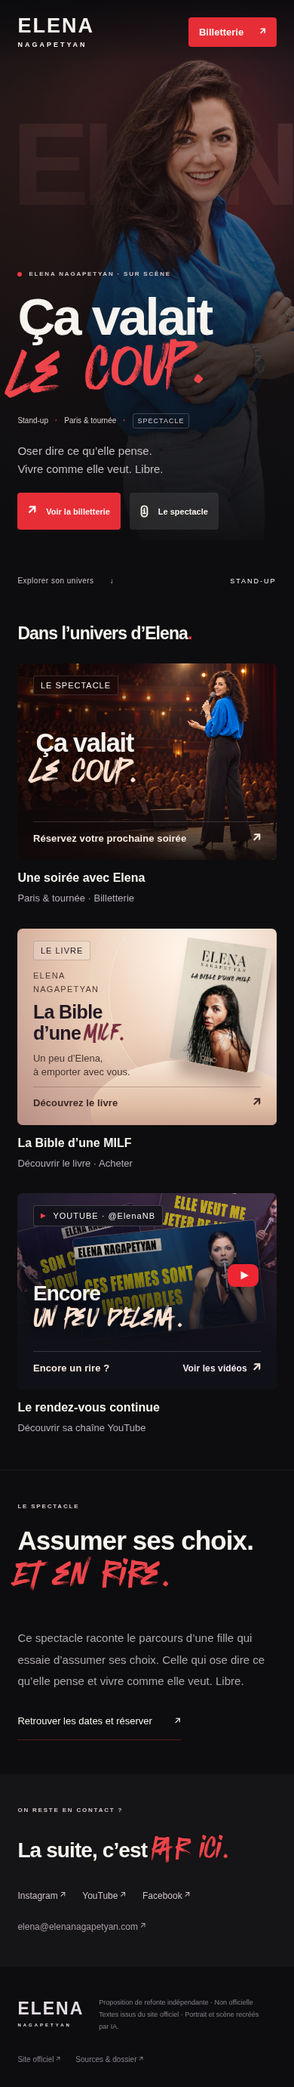
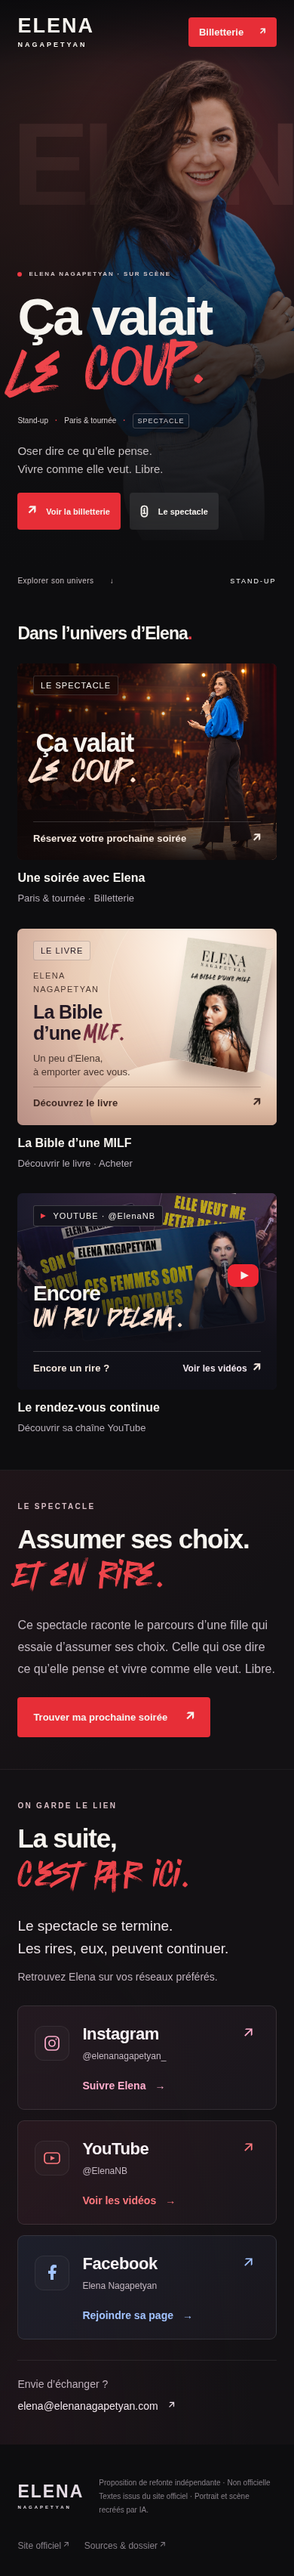
[Sol · GPT-6 · 19/09/2026] Harmoniser le bas de page et valoriser les réseaux

diff --git a/site/index.html b/site/index.html
@@ -1,12 +1,12 @@
 <!doctype html>
-<html lang="fr"><head><meta charset="utf-8"><meta name="viewport" content="width=device-width,initial-scale=1"><meta name="robots" content="noindex,nofollow"><meta name="description" content="Une proposition créative autour de l’univers d’Elena Nagapetyan."><title>Elena — Ça valait le coup · Concept</title><link rel="stylesheet" href="style.css?v=readability-8"></head>
+<html lang="fr"><head><meta charset="utf-8"><meta name="viewport" content="width=device-width,initial-scale=1"><meta name="robots" content="noindex,nofollow"><meta name="description" content="Une proposition créative autour de l’univers d’Elena Nagapetyan."><title>Elena — Ça valait le coup · Concept</title><link rel="stylesheet" href="style.css?v=social-9"></head>
 <body>
 <a class="skip" href="#spectacle">Aller au contenu</a>
 <header><a class="brand" href="#accueil" aria-label="Elena, accueil">ELENA<span>NAGAPETYAN</span></a><nav aria-label="Navigation principale"><a class="active" href="#accueil">Accueil</a><a href="#spectacle">Le spectacle</a><a href="#univers">Son univers</a><a href="#contact">Contact</a></nav><a class="tickets" href="https://linktr.ee/elenanb" target="_blank" rel="noopener noreferrer">Billetterie <span>↗</span></a></header>
 <main><section class="hero" id="accueil"><div class="glow"></div><div class="backword" aria-hidden="true">ELENA</div><img class="portrait" src="assets/elena-hd.png" alt="Elena Nagapetyan" fetchpriority="high"><div class="hero-shade"></div><div class="hero-content"><p class="eyebrow"><span></span> ELENA NAGAPETYAN · SUR SCÈNE</p><h1><span>Ça valait</span><br><em>le coup.</em></h1><div class="metadata"><span>Stand-up</span><b>·</b><span>Paris & tournée</span><b>·</b><span class="tag">SPECTACLE</span></div><p class="intro">Oser dire ce qu’elle pense.<br>Vivre comme elle veut. Libre.</p><div class="actions"><a class="button primary" href="https://linktr.ee/elenanb" target="_blank" rel="noopener noreferrer"><span>↗</span> Voir la billetterie</a><a class="button secondary" href="#spectacle"><span>ⓘ</span> Le spectacle</a></div></div><div class="hero-bottom"><span>UNE VOIX. AUCUN FILTRE.</span><a href="#univers">Explorer son univers <span>↓</span></a><span class="index">STAND-UP</span></div></section>
 <section class="catalog section" id="univers"><div class="section-heading"><h2>Dans l’univers d’Elena<span>.</span></h2><span>Sur scène, sur papier, sans filtre.</span></div><div class="cards"><a class="card stage" href="https://linktr.ee/elenanb" target="_blank" rel="noopener noreferrer"><div class="card-art"><span class="pill">LE SPECTACLE</span><img class="scene-photo" src="assets/elena-scene.png" alt="Illustration générée d’Elena debout sur scène face à une salle de spectacle" loading="lazy"><span class="scene-shade" aria-hidden="true"></span><div class="card-title">Ça valait<br><em>le coup.</em></div><span class="card-cta">Réservez votre prochaine soirée <span aria-hidden="true">↗</span></span></div><div class="card-caption"><h3>Une soirée avec Elena</h3><p>Paris & tournée · Billetterie</p></div></a><a class="card book" href="https://www.interforum.fr/Affiliations/accueil.do?refLivre=9782749964133&amp;refEditeur=132&amp;type=P" target="_blank" rel="noopener noreferrer"><div class="card-art"><span class="pill">LE LIVRE</span><span class="book-orbit" aria-hidden="true"></span><span class="book-plinth" aria-hidden="true"></span><div class="book-copy"><span>ELENA<br>NAGAPETYAN</span><strong>La Bible<br><span>d’une <em>MILF.</em></span></strong><small>Un peu d’Elena,<br>à emporter avec vous.</small></div><div class="book-object"><img src="assets/livre-couverture.jpg" alt="Couverture originale de La Bible d’une MILF, Elena Nagapetyan, éditions Michel Lafon" loading="lazy"></div><span class="card-cta">Découvrez le livre <span aria-hidden="true">↗</span></span></div><div class="card-caption"><h3>La Bible d’une MILF</h3><p>Découvrir le livre · Acheter</p></div></a><a class="card video" href="https://www.youtube.com/@ElenaNB" target="_blank" rel="noopener noreferrer"><div class="card-art"><div class="youtube-mosaic" aria-hidden="true"><img class="yt-back" src="assets/youtube-2.jpg" alt="" loading="lazy"><img class="yt-side" src="assets/youtube-3.jpg" alt="" loading="lazy"><img class="yt-front" src="assets/youtube-1.jpg" alt="" loading="lazy"></div><span class="video-shade" aria-hidden="true"></span><span class="pill youtube-label"><span>▶</span> YOUTUBE · @ElenaNB</span><span class="play" aria-hidden="true">▶</span><div class="video-type">Encore<br><em>un peu d’Elena.</em></div><span class="card-cta">Encore un rire ? <span class="cta-action">Voir les vidéos</span> <span aria-hidden="true">↗</span></span></div><div class="card-caption"><h3>Le rendez-vous continue</h3><p>Découvrir sa chaîne YouTube</p></div></a></div></section>
-<section class="story section" id="spectacle"><div><p class="eyebrow">LE SPECTACLE</p><h2>Assumer ses choix.<br><em>Et en rire.</em></h2></div><div class="story-copy"><p>Ce spectacle raconte le parcours d’une fille qui essaie d’assumer ses choix. Celle qui ose dire ce qu’elle pense et vivre comme elle veut. Libre.</p><a class="text-link" href="https://linktr.ee/elenanb" target="_blank" rel="noopener noreferrer">Retrouver les dates et réserver <span>↗</span></a></div></section>
-<section class="contact section" id="contact"><div><p class="eyebrow">ON RESTE EN CONTACT ?</p><h2>La suite, c’est <em>par ici.</em></h2></div><div class="socials"><a href="https://www.instagram.com/elenanagapetyan_/" target="_blank" rel="noopener noreferrer">Instagram ↗</a><a href="https://www.youtube.com/@ElenaNB" target="_blank" rel="noopener noreferrer">YouTube ↗</a><a href="https://www.facebook.com/p/Elena-Nagapetyan-100076068015422/" target="_blank" rel="noopener noreferrer">Facebook ↗</a></div><a class="email" href="mailto:elena@elenanagapetyan.com">elena@elenanagapetyan.com ↗</a></section>
+<section class="story section" id="spectacle"><div><p class="eyebrow">LE SPECTACLE</p><h2>Assumer ses choix.<br><em>Et en rire.</em></h2></div><div class="story-copy"><p>Ce spectacle raconte le parcours d’une fille qui essaie d’assumer ses choix. Celle qui ose dire ce qu’elle pense et vivre comme elle veut. Libre.</p><a class="button primary story-booking" href="https://linktr.ee/elenanb" target="_blank" rel="noopener noreferrer">Trouver ma prochaine soirée <span aria-hidden="true">↗</span></a></div></section>
+<section class="contact section" id="contact"><div class="contact-heading"><p class="eyebrow">ON GARDE LE LIEN</p><h2>La suite,<br><em>c’est par ici.</em></h2></div><p class="contact-intro">Le spectacle se termine.<br>Les rires, eux, peuvent continuer.<span>Retrouvez Elena sur vos réseaux préférés.</span></p><div class="socials" aria-label="Retrouver Elena sur les réseaux sociaux"><a class="social-link social-instagram" href="https://www.instagram.com/elenanagapetyan_/" target="_blank" rel="noopener noreferrer"><span class="social-icon" aria-hidden="true"><svg viewBox="0 0 24 24" fill="none" stroke="currentColor" stroke-width="1.7"><rect x="3" y="3" width="18" height="18" rx="5"/><circle cx="12" cy="12" r="4"/><circle cx="17.5" cy="6.5" r="1" fill="currentColor" stroke="none"/></svg></span><span class="social-name">Instagram</span><span class="social-handle">@elenanagapetyan_</span><span class="social-arrow" aria-hidden="true">↗</span><span class="social-invite">Suivre Elena <span aria-hidden="true">→</span></span></a><a class="social-link social-youtube" href="https://www.youtube.com/@ElenaNB" target="_blank" rel="noopener noreferrer"><span class="social-icon" aria-hidden="true"><svg viewBox="0 0 24 24" fill="none" stroke="currentColor" stroke-width="1.7"><rect x="2" y="5" width="20" height="14" rx="4"/><path d="m10 9 6 3-6 3Z" fill="currentColor" stroke="none"/></svg></span><span class="social-name">YouTube</span><span class="social-handle">@ElenaNB</span><span class="social-arrow" aria-hidden="true">↗</span><span class="social-invite">Voir les vidéos <span aria-hidden="true">→</span></span></a><a class="social-link social-facebook" href="https://www.facebook.com/p/Elena-Nagapetyan-100076068015422/" target="_blank" rel="noopener noreferrer"><span class="social-icon" aria-hidden="true"><svg viewBox="0 0 24 24" fill="none" stroke="currentColor" stroke-width="1.7"><path d="M14 21v-8h3l.5-4H14V7c0-1 .4-2 2-2h2V1.5A25 25 0 0 0 15 1c-3 0-5 2-5 5v3H7v4h3v8Z" fill="currentColor" stroke="none"/></svg></span><span class="social-name">Facebook</span><span class="social-handle">Elena Nagapetyan</span><span class="social-arrow" aria-hidden="true">↗</span><span class="social-invite">Rejoindre sa page <span aria-hidden="true">→</span></span></a></div><div class="contact-mail"><span>Envie d’échanger ?</span><a class="email" href="mailto:elena@elenanagapetyan.com">elena@elenanagapetyan.com <span aria-hidden="true">↗</span></a></div></section>
 </main><footer><a class="brand" href="#accueil">ELENA<span>NAGAPETYAN</span></a><p>Proposition de refonte indépendante · Non officielle<br>Textes issus du site officiel · Portrait et scène recréés par IA.</p><a href="https://www.elenanagapetyan.com/" target="_blank" rel="noopener noreferrer">Site officiel ↗</a><a href="dossier.html">Sources & dossier ↗</a></footer>
 <script src="interactions.js?v=1" defer></script>
 </body></html>

diff --git a/site/style.css b/site/style.css
@@ -138,3 +138,40 @@ header,.section,footer{padding-inline:var(--page-gutter)}
  .stage .card-title{font-size:30px}
 }
 .book .book-copy{top:20%}.book .book-copy strong{margin:8px 0}
+/* Deux séquences éditoriales alignées, puis les réseaux au premier plan. */
+.story,.contact{grid-template-columns:minmax(0,.95fr) minmax(0,1.05fr);column-gap:64px;padding-top:64px;padding-bottom:64px;align-items:center;background:#131114}
+.story{background:linear-gradient(135deg,#1f1519 0%,#131114 65%);border-top:1px solid #ffffff0d}
+.story .eyebrow,.contact .eyebrow{font-size:11px;letter-spacing:2.3px;color:#d7bdc4;margin:0 0 22px}
+.story h2,.contact h2{font-size:clamp(32px,3.4vw,46px);line-height:1.15;margin:0;letter-spacing:-1.2px}
+.story h2 em,.contact h2 em{display:inline-block;font-size:1.2em;margin-top:5px}
+.story-copy{padding:0;max-width:580px}.story-copy p{margin:0 0 26px;font-size:17px;line-height:1.85;color:#c3b9c2}
+.story-booking{font-size:14px;padding:15px 21px;gap:25px}
+.contact{border-top:1px solid #ffffff0c;row-gap:36px;background:radial-gradient(ellipse at 12% 100%,#3b202a40,transparent 60%),#131114}
+.contact-intro{font-size:21px;line-height:1.6;color:#eee5e9;margin:0}.contact-intro>span{display:block;margin-top:14px;font-size:15px;color:#bfb1bc}
+.contact .socials{grid-column:1/-1;display:grid;grid-template-columns:repeat(3,minmax(0,1fr));gap:20px}
+.socials .social-link{--social-color:#ffadcd;position:relative;display:grid;grid-template-columns:48px minmax(0,1fr) 20px;grid-template-rows:auto auto auto;column-gap:17px;align-items:center;min-height:158px;padding:26px 24px 22px;border-radius:9px;border:1px solid #ffffff1a;background:linear-gradient(135deg,#34222d77,#211c2380);color:#f8f1f5;transition:transform .2s,border-color .2s,background .2s}
+.socials .social-youtube{--social-color:#ff787e;background:linear-gradient(135deg,#3b1f2877,#211c2380)}
+.socials .social-facebook{--social-color:#a2c3ff;background:linear-gradient(135deg,#222d4277,#211c2380)}
+.social-icon{grid-column:1;grid-row:1/3;display:grid;place-items:center;width:48px;height:48px;color:var(--social-color);background:#ffffff06;border:1px solid #ffffff12;border-radius:12px}.social-icon svg{width:27px;height:27px}
+.social-name{grid-column:2;grid-row:1;font-size:22px;font-weight:700;letter-spacing:-.4px}.social-handle{grid-column:2;grid-row:2;font-size:12px;color:#c3b6c0;overflow-wrap:anywhere;margin-top:5px;line-height:1.4}
+.social-arrow{grid-column:3;grid-row:1;font-size:21px;color:var(--social-color)}
+.social-invite{grid-column:2/4;grid-row:3;font-size:14px;font-weight:600;color:var(--social-color);margin-top:24px;display:flex;align-items:center;gap:12px}.social-invite>span{transition:transform .2s}
+.socials .social-link:hover,.socials .social-link:focus-visible{transform:translateY(-3px);border-color:var(--social-color);color:#fff}.social-link:hover .social-invite>span{transform:translateX(4px)}
+.contact-mail{grid-column:1/-1;display:flex;justify-content:space-between;align-items:center;gap:20px;padding-top:25px;border-top:1px solid #ffffff14;font-size:14px;color:#bfb1bc}
+.contact .email{display:inline-flex;align-items:center;gap:20px;font-size:15px;color:#f0e5ec;overflow-wrap:anywhere}.email:hover{color:#ffadcd}
+footer{padding-top:32px;padding-bottom:32px;gap:28px;font-size:12px}footer p{font-size:11px}
+@media(max-width:1100px){
+ .story,.contact{column-gap:35px}.socials .social-link{padding:23px 17px;column-gap:12px;grid-template-columns:38px minmax(0,1fr) 16px}.social-icon{width:38px;height:38px}.social-icon svg{width:24px;height:24px}.social-name{font-size:20px}.social-handle{font-size:11px}.social-invite{font-size:13px}.contact .socials{gap:13px}
+}
+@media(max-width:760px){
+ .story,.contact{grid-template-columns:minmax(0,1fr);gap:27px;padding-top:42px;padding-bottom:42px}
+ .story h2,.contact h2{font-size:35px}.story .eyebrow,.contact .eyebrow{font-size:10px;margin-bottom:18px}
+ .story-copy p{font-size:16px;line-height:1.8;margin-bottom:23px}.story-booking{font-size:13px}
+ .contact-intro{font-size:19px}.contact-intro>span{font-size:14px;margin-top:10px}
+ .contact .socials{grid-template-columns:minmax(0,1fr);gap:14px}
+ .socials .social-link{min-height:138px;padding:22px;grid-template-columns:46px minmax(0,1fr) 20px;column-gap:17px}
+ .social-icon{width:46px;height:46px}.social-name{font-size:22px}.social-handle{font-size:12px}.social-invite{font-size:14px;margin-top:19px}
+ .contact-mail{flex-direction:column;align-items:flex-start;gap:12px;padding-top:23px}.contact .email{font-size:14px;gap:14px}
+ footer{gap:20px}footer p{font-size:10px;flex:1 1 180px}footer>a:not(.brand){font-size:12px}
+}
+@media(hover:none){.socials .social-link:hover{transform:none}.socials .social-link:active{background:#30232d}}

diff --git a/docs/VALIDATION.md b/docs/VALIDATION.md
@@ -16,3 +16,7 @@ Aucun message envoyé à Elena et aucune modification de son site d’origine.
 ## Lisibilité des cartes — 19 septembre 2026
 
 Titres dimensionnés selon la largeur de chaque carte, titre spectacle recentré verticalement dans sa moitié gauche, accroches et CTA agrandis et plus contrastés. Contrôles Chromium à 320, 390, 620, 768, 1024, 1440, 1920 et 3440 px : aucun débordement horizontal, accroche du livre séparée du lien d’achat. Captures et kit de contact régénérés. L’archive Docker v1.0.0 reste le snapshot initial ; les sources Docker du dépôt suivent la nouvelle démo.
+
+## Bas de page et réseaux — 19 septembre 2026
+
+Sections spectacle/contact harmonisées : grille, titres, espacements et couleurs. Réseaux présentés en trois grands liens avec icônes SVG, identifiants et invitations explicites ; pile verticale sur mobile. Contrôles Chromium à 320, 390, 760, 768, 1024, 1440 et 3440 px : aucun débordement horizontal, aucune erreur JavaScript. Destinations des trois liens relues et identiques aux liens originaux. Nouvelle capture `reseaux.png`, capture mobile et kit actualisés.

diff --git a/README.md b/README.md
@@ -48,6 +48,7 @@ Les archives de collecte, données locales et secrets ne font pas partie du dép
 - [Vue ordinateur](docs/screenshots/desktop.png)
 - [Vue mobile](docs/screenshots/mobile.png)
 - [Les trois cartes](docs/screenshots/cartes.png)
+- [Réseaux sociaux](docs/screenshots/reseaux.png)
 - [Prompt du portrait](docs/portrait-prompt.txt)
 - [Prompt de la scène](docs/scene-prompt.txt)
 - [Site d’origine](https://www.elenanagapetyan.com/)
